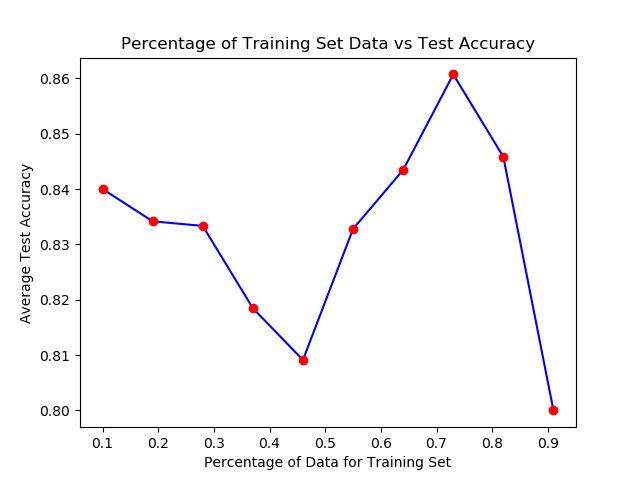
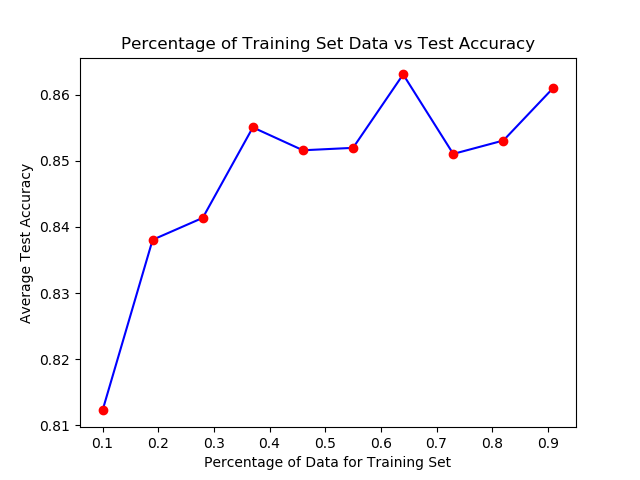
updated training vs test accuracy alogrithm

diff --git a/ml.py b/ml.py
@@ -10,7 +10,7 @@ class DecisionTree:
     A Decision Tree class that allows for classification of data into categories based on
     features of the data.
     """
-    def __init__(self, classes, attributes, data, train=0.70, max_height=10):
+    def __init__(self, classes, attributes, data, train=0.70, max_height=10, get_best_val_score=False):
         """
         Constructs the actual decision tree model based on the given parameters.
 
@@ -34,20 +34,28 @@ class DecisionTree:
         self._test_df = leftover_df[~is_val]
 
         self._curr_tree_head = Node()
-        self._best_tree_head = Node()
 
         self._heights = list(range(1, self._max_height + 1))
         self._val_accs = []
 
+        if get_best_val_score:
+            self.create_best_tree()
+        else:
+            self.create_tree(max_height)
+
+
+    def create_best_tree(self):
         best_val_acc = 0
         for i in self._heights:
             # print(i)
             self.create_tree(i)
             curr_val_acc = self.get_val_accuracy()
-            if (type(curr_val_acc) == int):
+            best_tree_head = Node()
+            if (type(curr_val_acc) == float):
               self._val_accs.append(curr_val_acc)
               if curr_val_acc > best_val_acc:
-                  self._best_tree_head = self._curr_tree_head
+                  best_tree_head = self._curr_tree_head
+        self._curr_tree_head = best_tree_head
 
 
     def calc_best_att(self, df):
@@ -367,8 +375,10 @@ def setup_weather_data():
 def plot_heights_vs_val_accs(classes, features, data, train_perc=0.7, max_height=10, num_trials=10):
     heights = range(max_height)
     all_val_accs = []
+    print("plotting heights of trree versus validation accuracy...")
     for i in range(num_trials):
-        tree = DecisionTree(classes, features, data, train_perc, max_height)
+        print("trial #" + str(i))
+        tree = DecisionTree(classes, features, data, train_perc, max_height, True)
         x, val_accs = tree.get_heights_and_val_accs()
         all_val_accs.append(val_accs)
 
@@ -379,12 +389,13 @@ def plot_heights_vs_val_accs(classes, features, data, train_perc=0.7, max_height
     plt.xlabel('Height of Tree')
     plt.ylabel('Average Validation Accuracy')
     plt.title('Height of Tree vs Average Validation Accuracy')
-    plt.savefig('ml-plots/height_vs_vals.png')
+    plt.savefig('ml-plots/height_vs_vals_test.png')
 
 
 def plot_train_perc_vs_test_accs(classes, features, data, max_height=10, num_trials=10):
     train_perc = np.linspace(0.1,1,11)
     all_test_accs = []
+    print("plotting training percentage versus testing accuracy...")
     for i in range(num_trials):
         print("trial #" + str(i))
         curr_test_accs = []
@@ -413,8 +424,8 @@ def main():
     # weather_tree = DecisionTree(weather_classes, weather_features, weather_data, 0.7, 10)
     # weather_tree.print_tree()
     # print("accuracy", weather_tree.get_test_accuracy())
-    # plot_heights_vs_val_accs(weather_classes, weather_features, weather_data, max_height=15)
-    plot_train_perc_vs_test_accs(weather_classes, weather_features, weather_data, max_height=7, num_trials=1)
+    # plot_heights_vs_val_accs(weather_classes, weather_features, weather_data, max_height=3, num_trials=2)
+    plot_train_perc_vs_test_accs(weather_classes, weather_features, weather_data, max_height=7, num_trials=10)
 
 
 if __name__ == "__main__":
